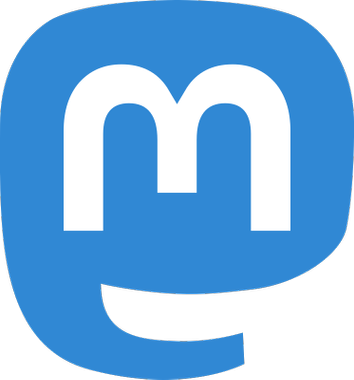
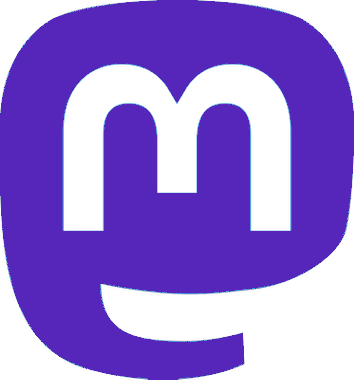
Switch to Patreon blog

diff --git a/docs/index.html b/docs/index.html
@@ -46,7 +46,8 @@
                     <a href="https://matrix.to/#/%23fluffychat:matrix.org" target="new">Community</a>
                     <a href="https://github.com/ChristianPauly/fluffychat#faq" target="new">FAQ</a>
                     <a href="https://github.com/ChristianPauly/fluffychat" target="new">Github</a>
-                    <a rel="me" href="https://metalhead.club/@krille">Microblog</a>
+                    <a href="https://www.patreon.com/krillechritzelius/posts" target="new">Blog</a>
+                    <a class="header_button" rel="me" href="https://metalhead.club/@krille" target="new"><img src="images/mastodon.png"></a>
                 </nav>
                 <a id="header_toggle_mobile" class="header_button"><img src="images/menu.svg"></a>
             </div>
@@ -67,6 +68,7 @@
             </div>
             <div class="one-half column gridItem">
                 <img id="screenshot" src="images/screenshot.png" class="article_image animated bounceInRight" />
+
             </div>
         </div>
 

diff --git a/docs/css/custom.css b/docs/css/custom.css
@@ -63,7 +63,11 @@ a {
 }
 
 .header_title, .header nav a{
-	padding: var(--header-font-padding);
+	padding: calc(2*var(--header-icon-padding));
+}
+
+.header_button{
+    padding: 0 !important;
 }
 
 .header_button img{
